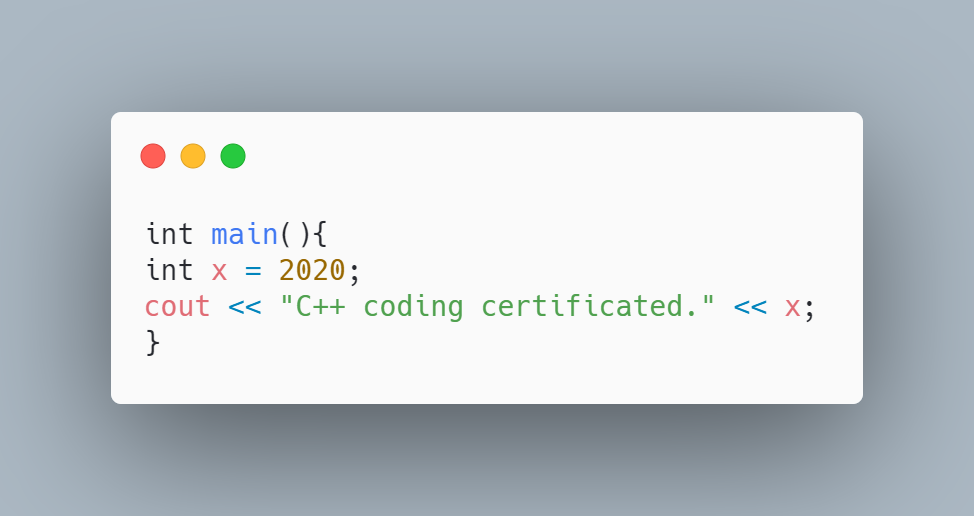
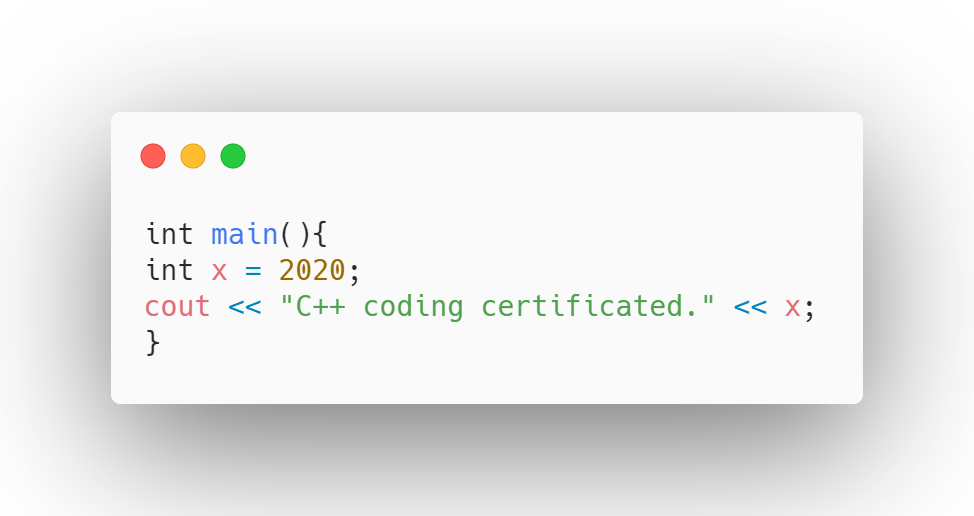
update pic

diff --git a/README.md b/README.md
@@ -19,7 +19,7 @@ Look at the left sidebar.
 > The ones who accomplish something are the fools who keep pressing onward. The ones who accomplish nothing are the wise who cease advancing. — *[can't remember for the credits.]*
 
 <h2 align="center">
-  <img width="300" src="https://github.com/ihosomnam/ihosomnam/blob/main/assets/code.png" alt="Coding" />
+  <img width="600" src="https://github.com/ihosomnam/ihosomnam/blob/main/assets/code.png" alt="Coding" />
 </h2>
 
 ### Contact
